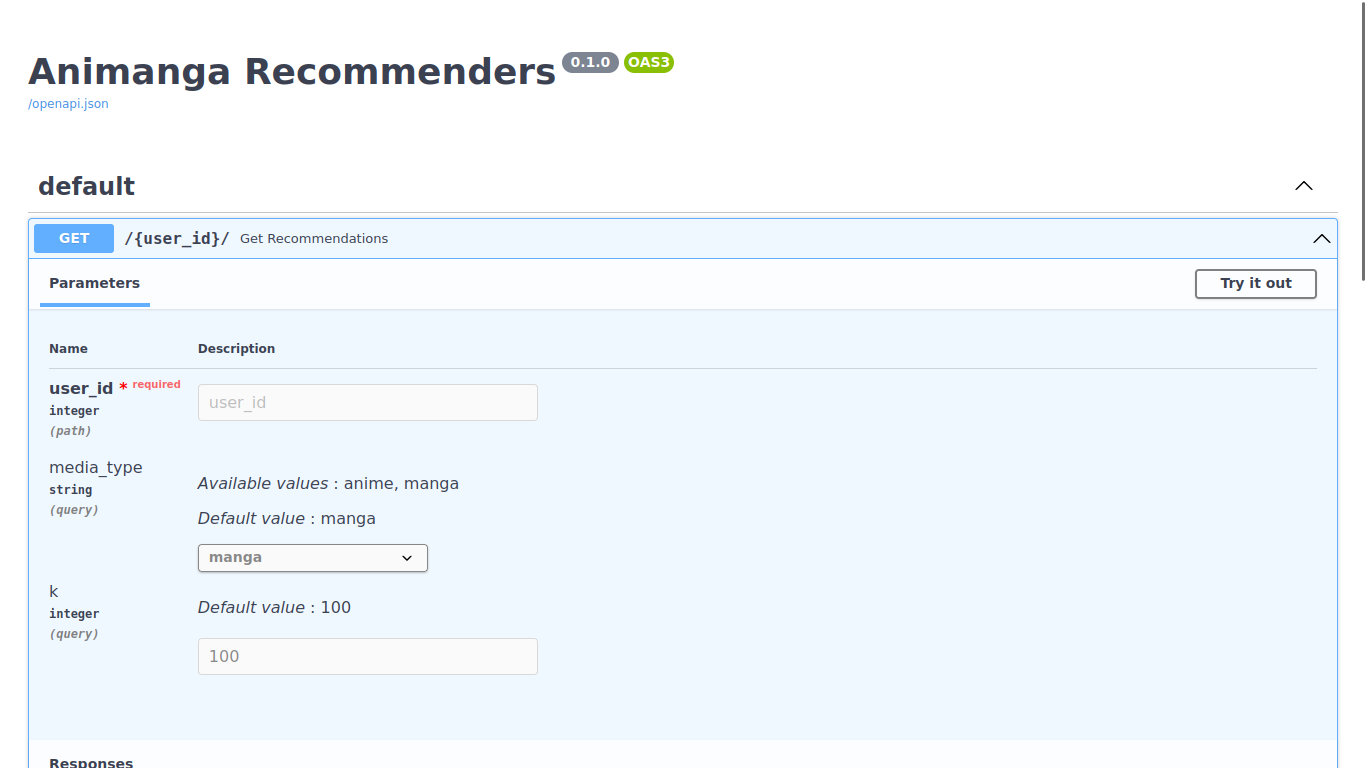
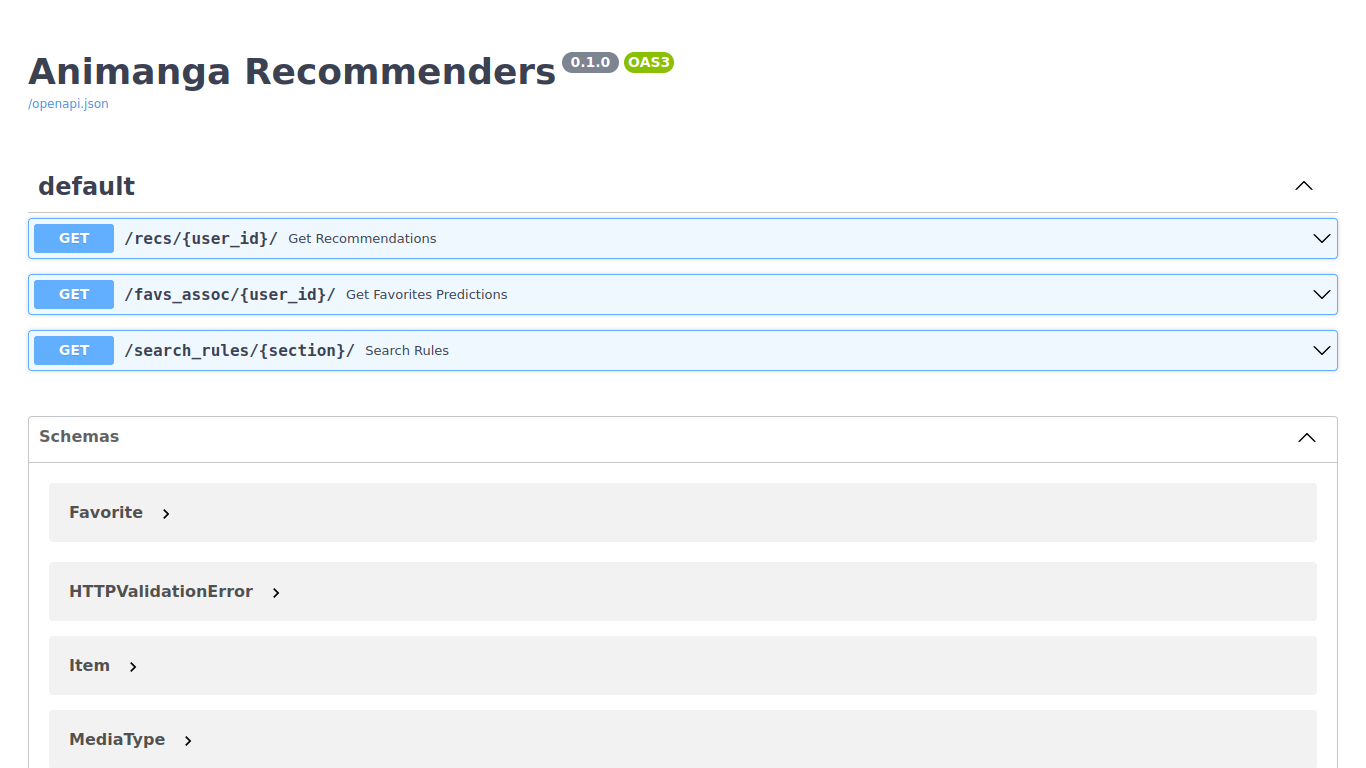
readme: add association rules things

diff --git a/README.md b/README.md
@@ -1,10 +1,12 @@
 # Anime and Manga Recommendation System
 
-This repository shows a simple deployment of an anime and manga recommendation system model using [FastAPI](https://fastapi.tiangolo.com/). It only uses a sample of data (4 records) for demonstration purposes.
+This repository shows a simple deployment of an anime and manga recommendation system model and users' favorites association rules. Deployment is done using [FastAPI](https://fastapi.tiangolo.com/). It only uses a sample of data (4 records) for demonstration purposes.
 
-The model is taken from my Bachelor thesis experiment result and [demo](./Demo_CDRS.ipynb). The demo is tidy and doesn't include the scraper, cleaning routine, and other tests (skip to the bottom of the notebook to see the recommendation in action!)
+The recommendation model is taken from my Bachelor thesis experiment result and [demo](./notebooks/Demo_CDRS.ipynb). The demo is tidy and doesn't include the scraper, cleaning routine, and other tests (skip to the bottom of the notebook to see the recommendation in action!)
 
 The experiments are published as paper and it can be accessed [here](https://ieeexplore.ieee.org/abstract/document/9946560)
+
+The association rules is a project I've done a while back that is related to this one, and I find it interesting so I include it here. The implementation is simple, mostly uses what's already given by Spark's [FP-Growth algortihm](https://spark.apache.org/docs/latest/ml-frequent-pattern-mining.html). The implementation can be found [here](./notebooks/Spark_Association_Rules.ipynb)
 
 ## Installation
 
@@ -18,23 +20,40 @@ chmod +x ./build-docker.sh
 # running the image
 docker run -d --name CONTAINER_NAME -p 8000:80 animanga-recommenders-fastapi:latest
 
-# either access your browser and go to http://localhost:8000/USER_ID (integer between 0-3) or... (don't forget that last "/" ...)
-curl -X GET http://localhost:8000/USER_ID/
+# either access your browser and go to http://localhost:8000/recs/USER_ID (integer between 0-3) or... (don't forget that last "/" ...)
+curl -X GET http://localhost:8000/recs/USER_ID/
 ```
+
+## Usage
+
+There's 3 endpoint:
+
+- `/recs/USER_ID` — used for anime and manga recommendation (matrix factorization)
+- `/favs_assoc/USER_ID` — used for anime and manga recommendation (association rules)
+- `/search_rules/SECTION/?query=QUERY` — sections is a value of either `[anime, manga, characters, people]` and query is the name/title of the section. this endpoint returns the rule for entered query
+
+For trying out, visit `http://localhost:8000/docs`
 
 ## Some Pics
 
-### Building the Image
-
-![It's running smoothly!](./images/1-building-docker-image.png)
-
 ### The API
-
-![It's outputting the same thing as with the Demo CDRS](./images/2-api-result.png)
 
 ![Neat docs from FastAPI](./images/3-api-docs.png)
 
-### Notes
+![It's outputting the same thing as with the Demo CDRS](./images/2-api-result.png)
+
+![Get recommendation for users via association rules](./images/6-get-recs.png)
+
+![Try to search for rules. Penguindrum! It's a great anime](./images/7-search-for-penguindrum.png)
+
+### Building the Image and Notes about Docker
+
+![It's running smoothly!](./images/1-building-docker-image.png)
 
 ![I took some notes regarding Docker](./images/4-docker-notes.png)
 
+### Association Rule Recs for Me & Training
+
+![Recommendations for me by the association rule model](./images/5-recs-for-me.png)
+
+![It's using n=15 and taking so long! (almost 30 miutes) ended up using n=20 which takes seconds...](./images/8-training-association-rules.png)
